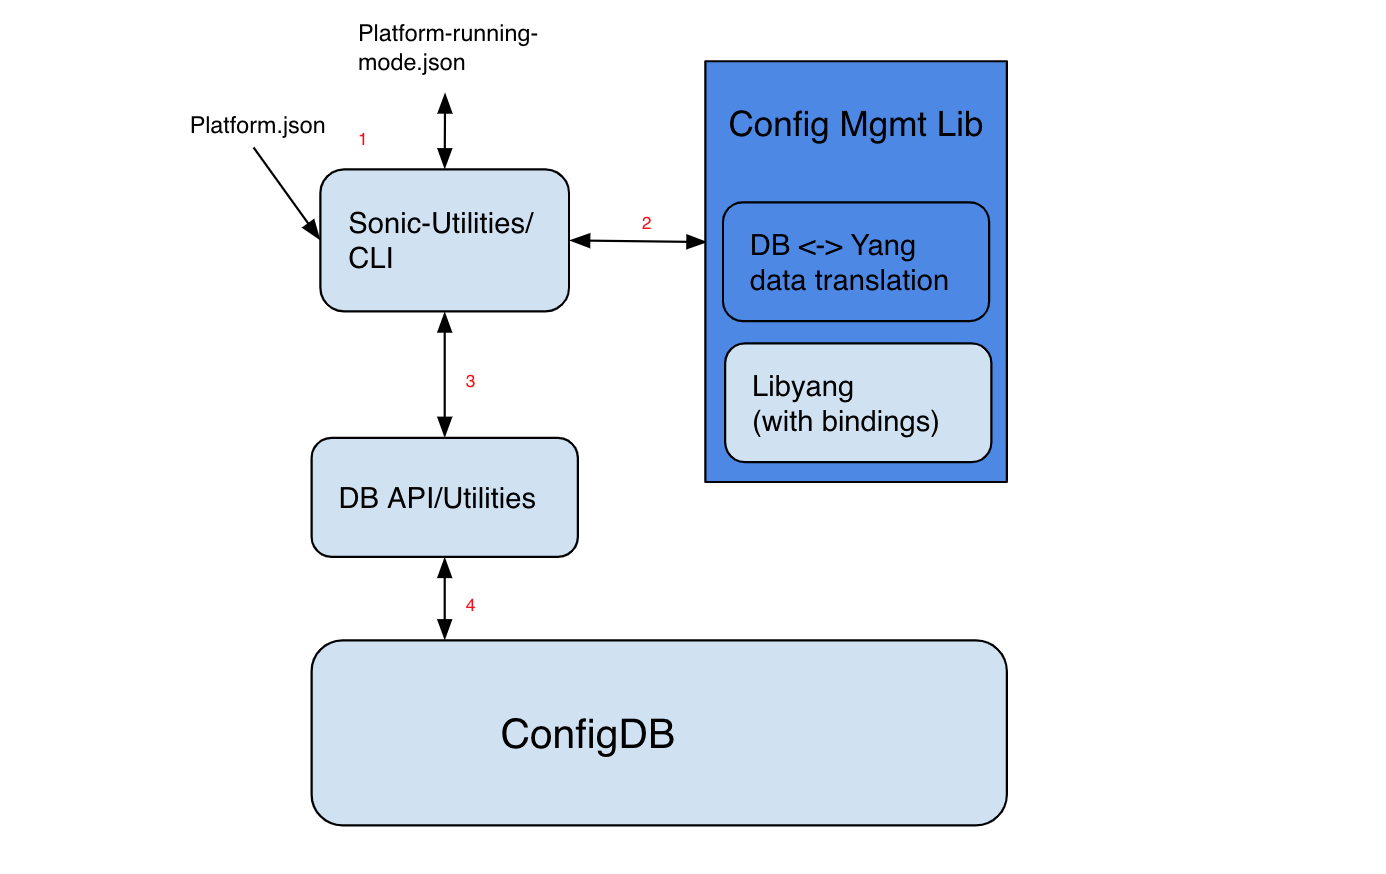
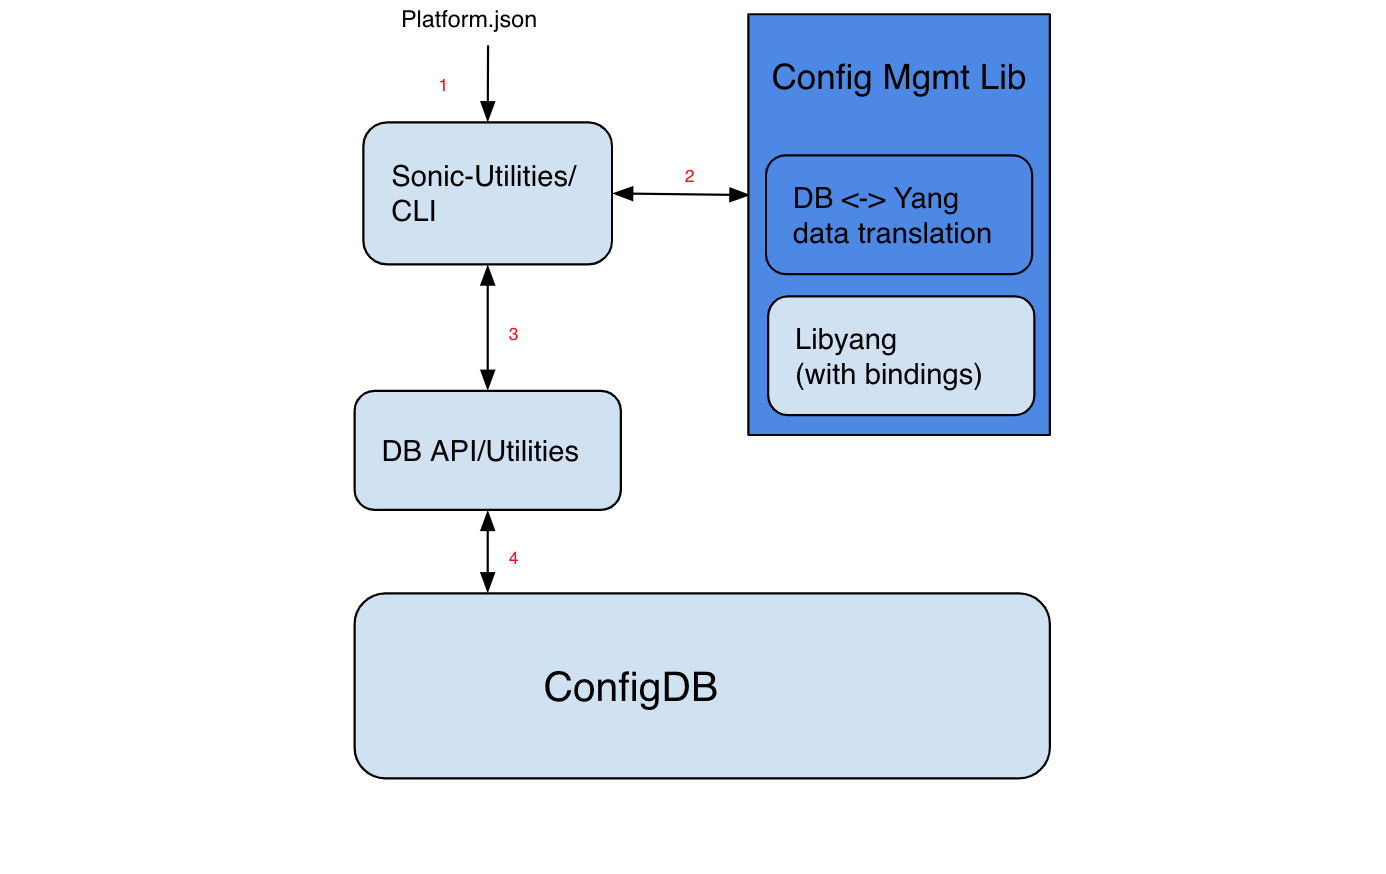
Update the document based on the meeting review.
- moved the running breakout mode to configDB
- use the platform.json for each HWSKU too.
- show CLI changes.

Changed region(s): [[0.1241, 0.0, 0.7756, 0.9577]]

diff --git a/doc/dynamic-port-breakout/sonic-dynamic-port-breakout-HLD.md b/doc/dynamic-port-breakout/sonic-dynamic-port-breakout-HLD.md
@@ -58,6 +58,7 @@
 |:---:|:-----------:|:------------------:|-----------------------------------|
 | 0.1 | 07/15/2019  | Zhenggen Xu           | Initial version                   |
 | 0.2 | 08/16/2019  | Zhenggen Xu           | Second version                   |
+| 0.3 | 08/16/2019  | Zhenggen Xu           | Review feedback and other changes                   |
 # Scope
 This document is the design document for dynamic port-breakout feature on SONiC. This includes the requirements, the scope of the design, HW capability considerations, software architecture and scope of changes for different modules.
 
@@ -128,7 +129,8 @@ Note, it will be similar if we want to support 8 lanes mode for newer devices.
 ## Platform capability design
 A capability file for a platform with port breakout capabilities is provided. It defines the initial configurations like lanes, speed, alias etc. This file will be used for CLI later to pick the parent port and breakout mode. It can be used for speed checks based on the current mode. It will also replace the functionality of the current existing port_config.ini.
 
-The capability file is named `platform.json` and should be provided to each platform if we need support DPB. And we also keep a running breakout mode in separate file as `platform-running-mode.json`.
+The capability file is named `platform.json` and should be provided to each platform if we need support DPB.
+
 `platform.json` looks like this:
 ```
 "Ethernet0": {
@@ -136,7 +138,7 @@ The capability file is named `platform.json` and should be provided to each plat
     "lanes": "0,1,2,3",
     "alias_at_lanes": "Eth1/1, Eth1/2, Eth1/3, Eth1/4",
     "breakout_modes": "1x100G[40G],2x50G,4x25G[10G],2x25G(2)+1x50G(2),1x50G(2)+2x25G(2)",
-    "default_mode": "1x100G[40G]"
+    "default_brkout_mode": "1x100G[40G]"
  },
 
  "Ethernet4": {
@@ -144,7 +146,7 @@ The capability file is named `platform.json` and should be provided to each plat
     "lanes": "4,5,6,7",
     "alias_at_lanes": "Eth2/1, Eth2/2, Eth2/3, Eth2/4",
     "breakout_modes": "1x100G[40G],2x50G,4x25G[10G],2x25G(2)+1x50G(2),1x50G(2)+2x25G(2)",
-    "default_mode": "1x100G[40G]"
+    "default_brkout_mode": "1x100G[40G]"
  }
  ...
 ```
@@ -155,7 +157,7 @@ In this file, only the parent ports (e,g, Ethernet0/4) are defined, the child po
 - "breakout_modes": This defines the breakout modes available on the platform for this parent port.
 
     The modes in the example file is neither necessarily the full list nor a must list, the design will not tied to the example. For instance, we should be able to define 50G serdes based platforms for 400G/200G/100G/50G ports. We can also define a subset of the port modes on some platform.
-- "default_mode": This defines the default breakout mode if no mode changes were applied on the system.
+- "default_brkout_mode": This defines the default breakout mode if no mode changes were applied on the system.
 
 Syntax for breakout_modes:
 - `number x speed1 [speed2, speed3]`
@@ -183,37 +185,52 @@ Syntax for breakout_modes:
 Speeds in the breakout modes will be used for speed validation when we change the individual ports speed later.
 Eg, In `4x25G[10G]` mode, we can change the individual port in that port group to 25G or 10G, but not some other speeds.
 
-`platform-running-mode.json` is formatted as below:
+The speeds usually used today are:
+`10G, 20G, 25G, 50G, 100G, 200G, 400G` etc.
+However, the design is not limited to this list.
+
+We will have a new table `BREAKOUT_CFG` in configDB to present the current running breakout mode, it will be saved to configDB after the initial breakout at boot time, and also updated whenever the port breakout is changed.
+
+```
+BREAKOUT_CFG:
+{
+    "Ethernet0": {
+        "current_brkout_mode": "1x100G[40G]"
+    },
+
+    "Ethernet4": {
+        "current_brkout_mode": "2x50G"
+     }
+    ...
+}
+```
+
+The configDB will have the final port breakout settings for individual ports, the format/schema is the same as before. Above table is used for CLI to quickly know what breakout mode the system is on, and thus delete/add relevant ports if we are going to change the breakout mode. Also, it could be used by backend daemons like `PMON` to know the breakout mode and change the port layout for port based events and LED changes etc.
+
+After dynamic port breakout support, we won’t need different HWSKUs for the same platform. If for any reason (e,g, keep backwards compatibility) the user still wants to have HWSKUs, we would put the `platform.json` into each HWSKU with the desired breakout modes:
 ```
 "Ethernet0": {
-    "running_mode": "1x100G[40G]"
+    "index": "1,1,1,1",
+    "lanes": "0,1,2,3",
+    "alias_at_lanes": "Eth1/1, Eth1/2, Eth1/3, Eth1/4",
+    "breakout_modes": "1x100G[40G],2x50G,4x25G[10G],2x25G(2)+1x50G(2),1x50G(2)+2x25G(2)",
+    "default_brkout_mode": "1x100G[40G]"
  },
 
  "Ethernet4": {
-    "running_mode": "2x50G"
+    "index": "2,2,2,2",
+    "lanes": "4,5,6,7",
+    "alias_at_lanes": "Eth2/1, Eth2/2, Eth2/3, Eth2/4",
+    "breakout_modes": "1x100G[40G],2x50G,4x25G[10G],2x25G(2)+1x50G(2),1x50G(2)+2x25G(2)",
+    "default_brkout_mode": "2x50G"
  }
-...
-```
-This file is saved on the device when the breakout mode was changed successfully. The configDB will have the final port breakout settings for individual ports, the format/schema is the same as before. This file is only used for CLI to quickly know what breakout mode the system is on, and thus delete/add relevant ports if we are going to change the breakout mode.
-
-After dynamic port breakout support, we won’t need different HWSKUs for the same platform. If for any reason (e,g, keep backwards compatibility) the user still wants to have HWSKUs, we would need to provide a predefined breakout file: `hwsku_breakout.json` per HWSKU:
-```
-"Ethernet0": {
-    "default_mode": "1x100G[40G]"
- 	}
-"Ethernet4": {
-    "default_mode": "4x25G[10]"
- 	}
-"Ethernet8": {
-    "default_mode": "2x50G"
-}
 …
 ```
-The mode in this file will have precedence over the "default_mode" on the `platform.json`, and it will be used for port breakout during the initialization phase
+The file will will have precedence over the `platform.json` at platform level, and it will be used for port breakout during the initialization phase
 
-Above `platform.json` and `hwsku_breakout.json` will deprecate the old port_config.ini file in the current SONiC design.
+Above `platform.json` will deprecate the old port_config.ini file in the current SONiC design.
 
-To keep backwards compatibility, we will modify the current code which is using port_config.ini to read from `platform.json` and `hwsku_breakout.json` first, if they don't exist, it will read the port_config.ini as usual. To support the breakout feature, the json files will be required. In case they are missing, DPB changes would fail at CLI phase.
+To keep backwards compatibility, we will modify the current code which is using port_config.ini to read from `platform.json` first, if it doesn't exist, it will read the port_config.ini as usual. To support the breakout feature, the json files will be required. In case they are missing, DPB changes would fail at CLI phase.
 
 ### Special HW capability consideration
 On some platforms, there are some limitations about the number of port/mac available for the total count or for a particular group. For example, on some platforms, there were limitations where only 4 port/MAC are available for 8 lanes, in this case, we could define the `platform.json` to fit that platform. e,g:
@@ -223,7 +240,7 @@ On some platforms, there are some limitations about the number of port/mac avail
     "lanes": "0,1,2,3,4,5,6,7",
     "alias_at_lanes":"Eth1/1, Eth1/2, Eth1/3, Eth1/4, Eth2/1, Eth2/2, Eth2/3, Eth2/4",
     "breakout_modes": "2x100G[40G],4x50G,1x100G[40G](4)+2x50G(4),2x50G(4)+1x100G[40G](4),4x25G[10G](4), None(4)+4x25G[10G](4)",
-    "default_mode": "2x100G[40G]"
+    "default_brkout_mode": "2x100G[40G]"
  }
  ...
 ```
@@ -235,7 +252,7 @@ On some platforms, the serdes connection to front panel port might not be the as
     "lanes": "0,1",
     "alias_at_lanes": "Eth1/1, Eth1/2",
     "breakout_modes": "1x50G, 1x25G[10G], 2x25G[10G]",
-    "default_mode": "1x50G"
+    "default_brkout_mode": "1x50G"
  },
 
  "Ethernet2": {
@@ -243,14 +260,14 @@ On some platforms, the serdes connection to front panel port might not be the as
     "lanes": "2,3",
     "alias_at_lanes": "Eth2/1, Eth2/1",
     "breakout_modes": "1x50G, 1x25G[10G], 2x25G[10G]",
-     "default_mode": "1x50G"
+     "default_brkout_mode": "1x50G"
  }
  ...
 ```
 
 ## CLI design
 ### General design
-As mentioned above, when we change the configuration by CLI, we also keep a running breakout mode in `platform-running-mode.json`. This file is used by CLI to know the current mode and do platform validation. The `platform.json` will be used to generate new configurations after we breakout the ports to a different mode. The format/schema of the configDB for port table is not changed in this design.
+As mentioned above, when we change the configuration by CLI, we also keep a running breakout mode in configDB to know the current mode and do platform validation. The `platform.json` will be used to generate new configurations after we breakout the ports to a different mode. The format/schema of the configDB for port table is not changed in this design. Also, we will introduce a lock for config CLI so only one can change the configuration at time to prevent inconsistency.
 
 Given example of `platform.json` to have 4 lanes on parent port Ethernet0 with Ethernet1/2/3 in the same group:
 ```
@@ -259,7 +276,7 @@ Given example of `platform.json` to have 4 lanes on parent port Ethernet0 with E
     "lanes": "0,1,2,3",
     "alias_at_lanes": "Eth1/1, Eth1/2, Eth1/3, Eth1/4",
     "breakout_modes": "1x100G[40G],2x50G,4x25G[10G],2x25G,2x25G(2)+1x50G(2),1x50G(2)+2x25G(2)",
-    "default_mode": "1x100G[40G]"
+    "default_brkout_mode": "1x100G[40G]"
  }
 ```
 CLI will look like below:
@@ -273,9 +290,9 @@ Or
 > config interface Ethernet0 breakout 1x100G[40G]
 > config interface Ethernet0 speed 40G
 ```
-CLI will query the `platform-running-mode.json` to get the current mode of `4x25G[10G]` for Ethernet0. If Ethernet0 or other port name is not found in json, we will fail the CLI.
+CLI will query the configDB to get the current mode of `4x25G[10G]` for Ethernet0. If port name in the CLI (e,g, Ethernet0) is not found in json, we will fail the CLI.
 
-Based on the `platform.json` and the mode, we know there are 4 ports in the port group, and CLI will try to delete all of them one by one first. During deletion, if there are dependencies on the port, depending on the CLI options, we will print the list of the dependencies and fail the CLI, or we delete the dependencies automatically and then delete the ports. This will be described in more details later. After the old ports got deleted, CLI will query the `platform.json` and the target breakout mode to generate the configDB entries. In this case as below:
+Based on the `platform.json` and the current mode, we know there are 4 ports in the port group, and CLI will try to delete all of them one by one first. During deletion, if there are dependencies on the port, depending on the CLI options, we will print the list of the dependencies and fail the CLI, or we delete the dependencies automatically and then delete the ports. This will be described in more details later. After the old ports got deleted, CLI will query the `platform.json` and the target breakout mode to generate the configDB entries. In this case as below:
 ```
     "Ethernet0": {
         "alias": "Eth1/1",
@@ -308,11 +325,11 @@ Config port to 25G/50G mix speeds:
 ```
 We should now get Ethernet0/1 with 25G and Ethernet2 with 50G. Ethernet3 are removed if existed before.
 
-In short, the CLI will query the current breakout mode from `platform-running-mode.json`, it will delete ports first and then add ports back.
+In short, the CLI will query the current breakout mode from configDB, it will delete ports first and then add ports back.
 
 The CLI checks that only the ports in `platform.json` will be applicable for breakout mode, and only the breakout modes defined in "breakout_modes" in `platform.json` can be applied.
 
-When using CLI to configure the port speed, it will also query the current breakout mode `platform-running-mode.json`, and then check if the current speed is supported or not.
+When using CLI to configure the port speed, it will also query the current breakout mode from configDB, and then check if the current speed is supported or not.
 
 E,g, If the current breakout mode is `4x25G[10G]`, this means any ports can be configured to 25G or 10G,  but if we configure the speed with 50G or other speed, CLI will return error right away before calling the backend calls.
 
@@ -335,17 +352,27 @@ During the port breakout removing port process, it will communicate with configu
 During the adding port process, CLI will determine the physical lanes for each breakout port based on `platform.json` and the target breakout mode. It will generate multiple individual ports with proper lanes, alias, speed etc info to configDB,
 
 ### Show CLI
-Show interface command should be able to show the ports with mode and different properties etc.
+Show interface command should be able to show the ports capability and the current breakout mode.
 ```
 > show interfaces breakout
-  Interface    breakout
------------   ------------
-  Ethernet0    1x100G[40G]
-  Ethernet4    2x50G
-  Ethernet8    4x25G[10G]
-  Ethernet12   1x100G[40G]
-  Ethernet16   2x50G
-  Ethernet20   4x25G[10G]
+"Ethernet0": {
+    "index": "1,1,1,1",
+    "lanes": "0,1,2,3",
+    "alias_at_lanes": "Eth1/1, Eth1/2, Eth1/3, Eth1/4",
+    "breakout_modes": "1x100G[40G],2x50G,4x25G[10G],2x25G(2)+1x50G(2),1x50G(2)+2x25G(2)",
+    "default_brkout_mode": "1x100G[40G]",
+    "current_brkout_mode": "4x25G[10G]"
+ },
+
+ "Ethernet4": {
+    "index": "2,2,2,2",
+    "lanes": "4,5,6,7",
+    "alias_at_lanes": "Eth2/1, Eth2/2, Eth2/3, Eth2/4",
+    "breakout_modes": "1x100G[40G],2x50G,4x25G[10G],2x25G(2)+1x50G(2),1x50G(2)+2x25G(2)",
+    "default_brkout_mode": "1x100G[40G]",
+    "current_brkout_mode": "2x50G"
+ }
+
 ```
 
 ## Configuration management
@@ -362,7 +389,7 @@ High level configuration flow is as below:
 ![alt text](images/sonic-dpb-config-interfaces.png "SONiC dynamic port breakout config interfaces")
 
 Interfaces in the figure:
-1. CLI will utilize `platform.json` and `platform-running-mode.json` to find out what ports to be deleted and generate the individual port configurations into configDB. When port-breakout was changed successfully, CLI will update the `platform-running-mode.json`.
+1. CLI will utilize `platform.json` and configDB to find out what ports to be deleted and then generate the individual port configurations into configDB. When port-breakout was changed successfully, CLI will update the configDB for `BREAKOUT_CFG` table.
 2. CLI will call the config management library to load configDB data into Yang instance data after generic translation, then during the port delete, it will find all the dependencies and optionally remove them automatically. It then translates the Yang instance data to configDB data. This interface is also used for config validate like syntax checks and dependency checks, whenever we are pushing data to configDB, e,g, during the port adding process.
 3. CLI will use existing RedisDB APIs or utilities like sonic-cfggen to read/write data to configDB.
 4. This is the RedisDB interface.
